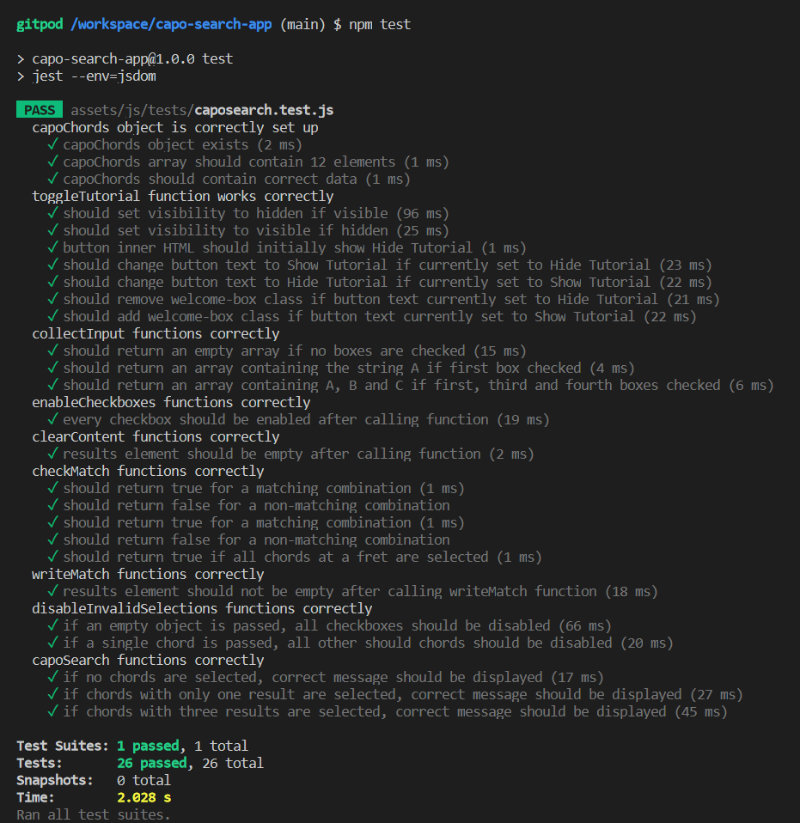
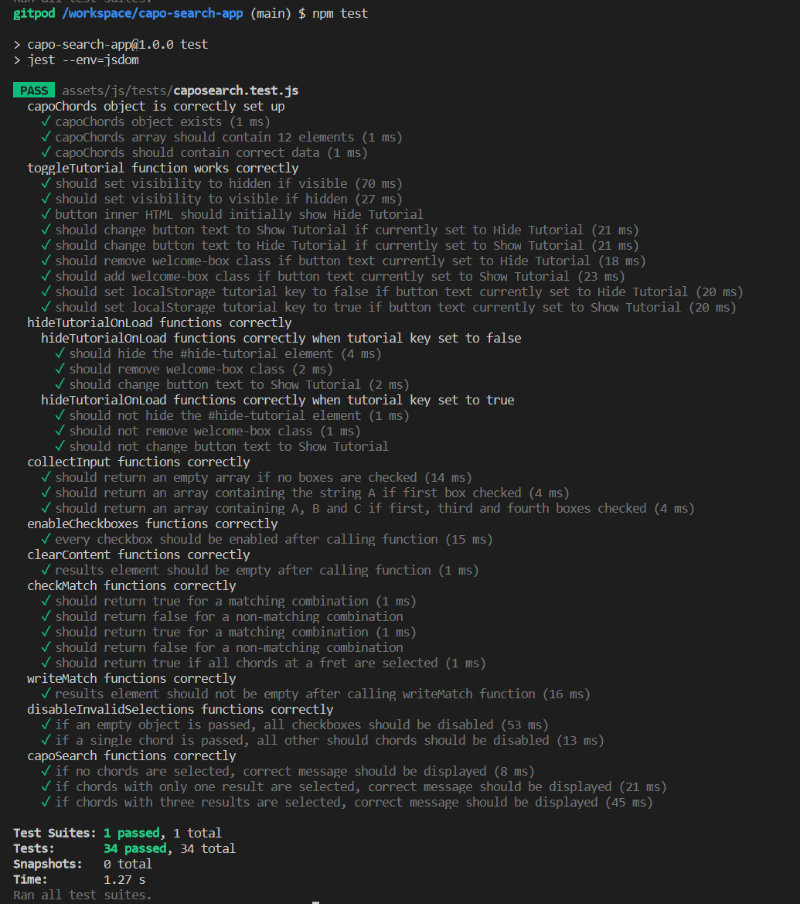
Update Jest testing documentation in testing.md

Changed region(s): [[0.0, 0.0, 0.9688, 1.0], [0.8438, 0.5468, 0.875, 0.5772]]

diff --git a/TESTING.md b/TESTING.md
@@ -47,15 +47,15 @@ require('./bootstrap/bootstrap.bundle.min.js');
 * The test specifications file is: [caposearch.test.js](https://github.com/lmjh/capo-search-app/blob/ef2fbcf9addaa9fe3eaa25df804b7f64737b32b8/assets/js/tests/caposearch.test.js)
 * The javascript file being tested is: [caposearch.js](https://github.com/lmjh/capo-search-app/blob/ef2fbcf9addaa9fe3eaa25df804b7f64737b32b8/assets/js/caposearch.js)
 
-The test specification contains a total of 26 automated Jest tests and all pass as expected. 
+The test specification contains a total of 34 automated Jest tests and all pass as expected. 
 
 ![Screenshot of Jest running all tests](documentation/testing-images/jest-tests.jpg)
 
 The tests in place cover every function and the one object included in the application's Javascript file. I have tried to test an example of every expected behaviour of each function, with a few notable exceptions:
 
-* I have not tested Jquery or Bootstrap functions with Jest. When Jquery and Bootstrap functions are used, I have confirmed through manual testing that they are behaving as expected.
 * The writeMatch function, which is responsible for writing matched chord positions to the results area of the DOM, has not been fully tested with Jest as its outputs are long and complex strings of HTML code, which would be difficult and time consuming to automatically test with Jest. I therefore used extensive manual testing to confirm that this function was correctly writing results to the DOM.
 * Some parts of the capoChords function, which controls the overall flow of the application, have not been fully tested with Jest. This function is difficult to test with automated tests as it is somewhat complex and most of its functionality involves calling other functions (which have been tested individually with Jest) and passing values between functions. capoSearch's more isolatable behaviours, like its response to a zero-length input string and writing the number of results found to the DOM, have been tested with Jest, while the remaining functionality was tested manually.
+* I have not tested all Jquery or Bootstrap functions with Jest. In some instances where Jquery and Bootstrap functions are called, I have confirmed through manual testing that they are behaving as expected. This is because I don't consider testing these libraries to be within the scope of this project.
 
 ### How to run Jest tests 
 
